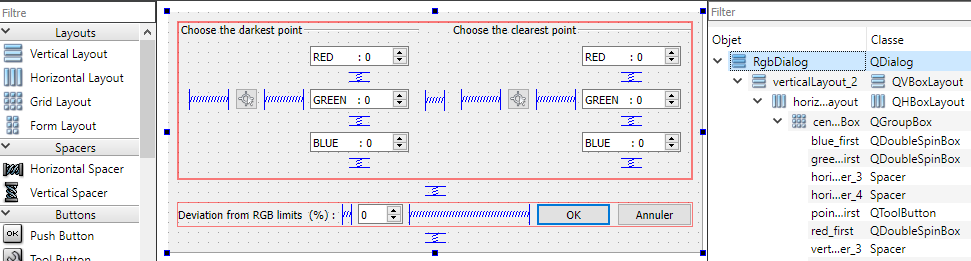
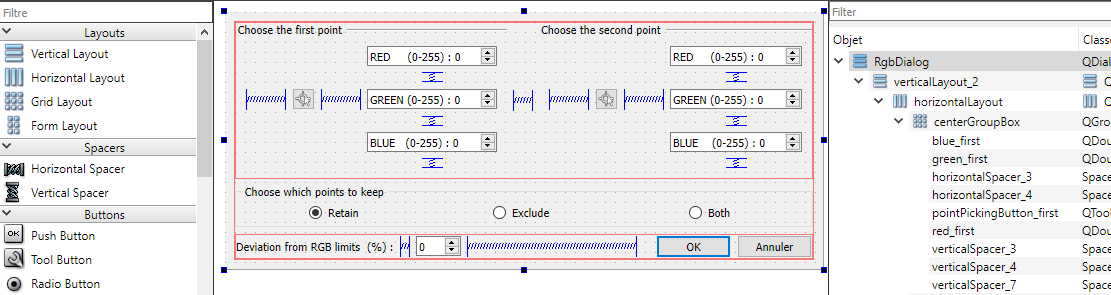
ajout choix sous-scans + ui hsv

Changed region(s): [[0.0, 0.0, 1.0, 1.0], [0.8342, 0.5211, 1.0, 0.9808], [0.9578, 0.9502, 1.0, 0.9808]]

diff --git a/doc/rapport_description/Rapport_description_systeme_beta.tex b/doc/rapport_description/Rapport_description_systeme_beta.tex
@@ -274,14 +274,18 @@ Nous pouvons voir dans cet exemple, les valeurs RGB d'un point qui a été séle
 
 Notre première idée a donc été d'exploiter ces trois valeurs, et d'avoir un premier filtrage du nuage. Pour ce faire, nous avons réalisé un algorithme consistant à sélectionner uniquement les points qui ont des valeurs RGB proches d'un point dans le nuage. Dans nos premières itérations, nous nous basions uniquement sur la sélection d'un point, pour en définir des bornes RGB qui vont constituer notre plage de points à garder, grâce à un pourcentage d'écart. Suite à des réunions avec le client, une autre solution alternative a été de sélectionner deux points, pour directement définir nos bornes. \newline
 
-Pour cela, nous avons développé dans un premier temps, l'interface utilisateur. Cette dernière est composée de deux points à renseigner, par leurs valeurs RGB. Afin de simplifier l'utilisation du plugin, nous avons intégré un bouton afin de sélectionner un point directement sur le nuage, et qui va ensuite renseigner les valeurs RGB du point sélectionné automatiquement. Enfin, nous avons aussi un champ afin d'écarter les limites de nos bornes RGB, pour accepter des points qui sont proches des bornes renseignées. \newline
+Pour cela, nous avons développé dans un premier temps, l'interface utilisateur. Cette dernière est composée de deux points à renseigner, par leurs valeurs RGB. Afin de simplifier l'utilisation du plugin, nous avons intégré un bouton afin de sélectionner un point directement sur le nuage, et qui va ensuite renseigner les valeurs RGB du point sélectionné automatiquement. \newline
+
+Il est aussi possible de choisir les points que l'utilisateur veut garder. Le choix de l'option "Retain" permet à l'utilisateur de créer un sous-scan où les points affichés seront les points qui sont à l'intérieurs des bornes. Inversement, l'option "Exclude" va permettre de créer un sous-scan avec les points qui seront hors de l'intervalle choisis. Enfin, la dernière option "Both" va permettre de réaliser les deux options. Nous aurons donc à la fin, deux sous-scans où la somme va permettre de retrouver le scan original.
+
+Nous avons enfin un champ afin d'écarter les limites de nos bornes RGB, pour accepter des points qui sont proches des bornes renseignées.  \newline
 
 \begin{figure}[H]
 \center \includegraphics[width=0.8\textwidth]{./img/ui_filter_rgb.png}
   \caption{\label{} Interface filtrage RGB}
 \end{figure}
 
-Après le renseignement des bornes inférieures et supérieures en RGB, et la validation de la fenêtre, le plugin va recalculer les bornes si un pourcentage d'écart à été renseigné. Une fois ces nouvelles bornes calculées, il reste donc à parcourir l'ensemble des points du nuage, et de vérifier pour chaque point, si ses valeurs RGB sont à l'intérieur des bornes. Les points qui respectent cette condition sont gardés dans une liste de points. Cette dernière va ensuite nous servir pour créer un nouveau nuage de points.
+Après le renseignement des différents paramètres, et la validation de la fenêtre via le bouton "OK", le plugin va recalculer les bornes si un pourcentage d'écart à été renseigné. Une fois ces nouvelles bornes calculées, il reste donc à parcourir l'ensemble des points du nuage, et de vérifier pour chaque point, si ses valeurs RGB sont à l'intérieur des bornes. Les points qui respectent cette condition sont gardés dans une liste de points, et les autres seront stockés dans une autre liste. Ces deux listes vont nous permettre de créer des sous-scans sur CloudCompare, selon le choix sélectionné par l'utilisateur.\newline
 
 \begin{figure}[H]
 \center
@@ -343,7 +347,18 @@ Les plages de couleurs que nous avons fixé sont donc les suivantes :
     \item Rouge : $330 < teinte \leq 360$ \newline
 \end{itemize}
 
-Nous pouvons donc maintenant classifier nos points selon nos composantes HSV. Il ne nous reste donc qu'à ajouter les points qui sont de la même catégorie que le point sélectionné. Ci-dessous, un exemple de ce filtrage, identique à celui pour le RGB :
+Nous pouvons donc maintenant classifier nos points selon nos composantes HSV. Il ne nous reste donc qu'à ajouter les points qui sont de la même catégorie que le point sélectionné. \newline
+
+Au niveau de l'interface, elle est très similaire à celle du RGB, en ajoutant les trois nouvelles composantes du HSV.
+
+\begin{figure}[H]
+\center \includegraphics[width=0.8\textwidth]{./img/ui_filter_hsv.PNG}
+  \caption{\label{} Interface filtrage HSV}
+\end{figure}
+
+Il est possible d'utiliser le point picking afin de choisir directement un point sur le nuage, ce qui va remplir les trois champs RED / GREEN / BLUE. Lorsque un de ces trois champs est modifié, les trois autres champs HUE / SAT / VAL sont automatiquement modifiés. Il est aussi possible de modifier les valeurs directement en modifiant un des champs. \newline
+
+Ci-dessous, un exemple de ce filtrage, identique à celui pour le RGB :
 
 \begin{figure}[H]
 \center
@@ -382,7 +397,6 @@ Un autre exemple sur un autre nuage de points va nous permettre de mieux voir le
 Nous remarquons donc une nette amélioration au niveau de la sélection des tuyaux blancs, surtout pour les tuyaux qui ont une couleur blanche mais avec un peu d'ombre. Même si on obtient des résidus, nous pouvons maintenant récupérer avec plus de précision les points que nous voulons. \newline
 
 Les limites de cette méthode sont que les plages de couleurs sont fixes dans le code. Il serait possible d'afficher un mode "avancé" pour l'utilisateur, afin qu'il puisse définir lui-même ses bornes. Après discussion avec les demandes du client, cette option étant facultative et avec un manque de temps sur le projet, nous n'avons pas développé cette partie.
-
 
 \subsection{Tone mapping}
 
